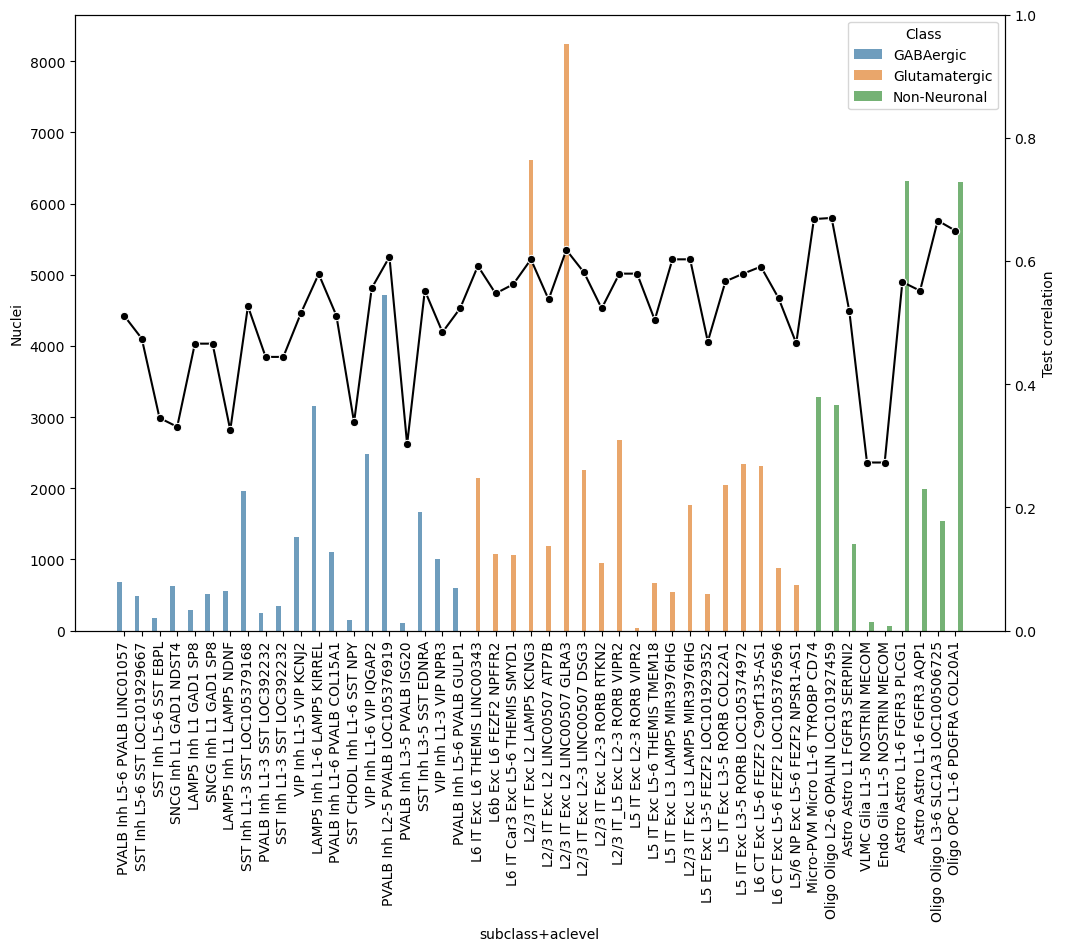
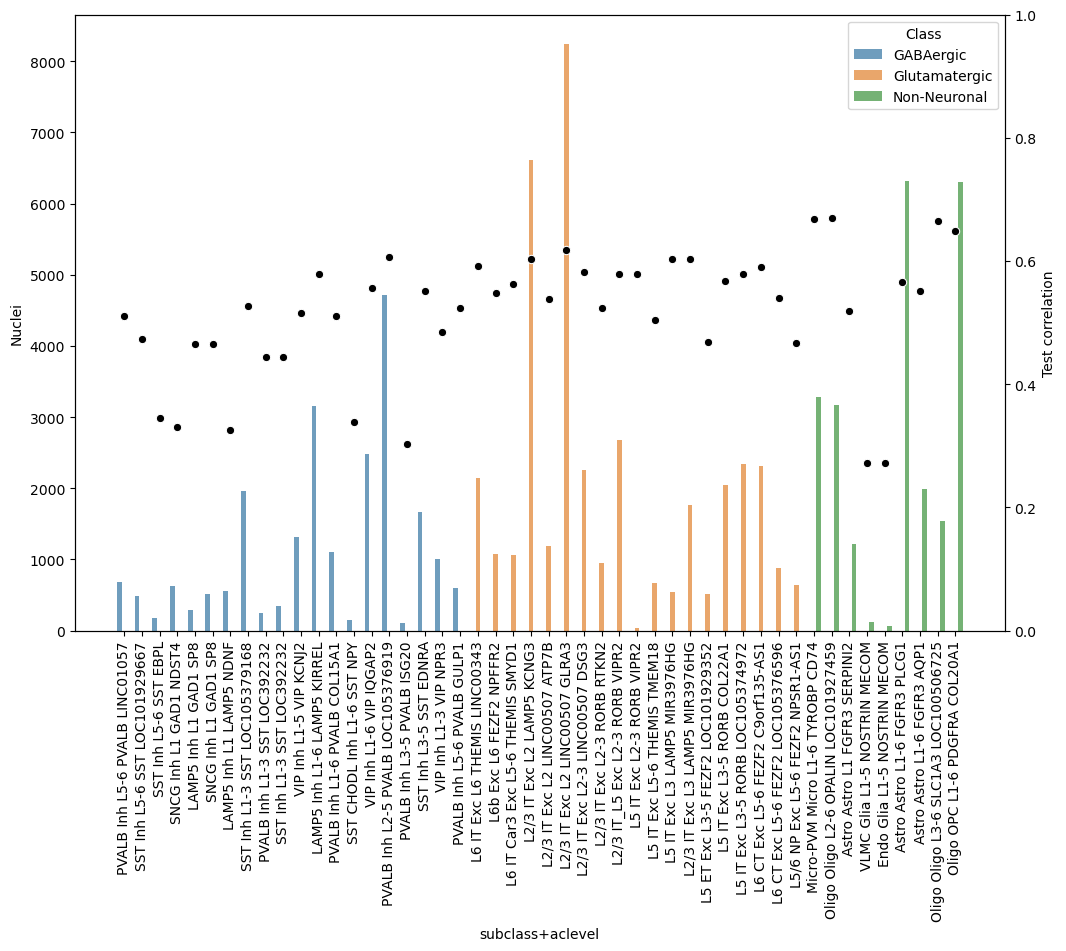
analyse atac counts vs correlation

diff --git a/human_atac_classes/analyse_counts.py b/human_atac_classes/analyse_counts.py
@@ -5,23 +5,23 @@ import seaborn as sns
 ## load correlation on the test set for these tracks
 df_corr_test = pd.read_csv('/exports/humgen/idenhond/data/evaluate_correlation/correlation_per_track_test_humanatac.csv')
 df_corr_test = df_corr_test.rename(columns = {'Unnamed: 0' : 'Index old'})
-print(df_corr_test)
-
 df_corr_valid = pd.read_csv('/exports/humgen/idenhond/data/evaluate_correlation/correlation_per_track_valid_humanatac.csv')
 df_corr_valid = df_corr_valid.rename(columns = {'Unnamed: 0' : 'Index old'})
-print(df_corr_valid)
-
 df_corr_train = pd.read_csv('/exports/humgen/idenhond/data/evaluate_correlation/correlation_per_track_train_humanatac.csv')
 df_corr_train = df_corr_train.rename(columns = {'Unnamed: 0' : 'Index old'})
-print(df_corr_train)
 
 input_file = '/exports/humgen/idenhond/data/basenji_preprocess/human_atac_targets_classes_counts.csv'
-df = pd.read_csv(input_file, sep = ',')
+df = pd.read_csv(input_file, sep = ',').drop_duplicates(subset = 'Index old', keep = False, inplace=False)
+print(df)
+# idx_subclass_ac = [35, 29,  30, 36, 37, 39, 40, 33, 25, 38, 41, 42, 31, 27, 28, 32, 8, 9, 10, 5, 6, 11, 12, 13, 19, 17, 15, 16, 21, 18, 20, 3, 1, 2, 52, 56, 57, 59]
+# df = df.loc[df['Index old'].isin(idx_subclass_ac)] #.sort_values(by = 'names')
 
 df_all = df.merge(df_corr_test, left_on='Index old', right_on = 'Index old').rename(columns = {'0' : 'Test correlation'})
 df_all = df_all.merge(df_corr_valid, left_on='Index old', right_on = 'Index old').rename(columns = {'0' : 'Valid correlation'})
 df_all = df_all.merge(df_corr_train, left_on='Index old', right_on = 'Index old').rename(columns = {'0' : 'Train correlation'})
+df_all = df_all.drop(['file', 'clip', 'sum_stat', 'scale'], axis = 1)
 print(df_all)
+print(df_all.shape)
 print(df_all.columns)
 
 print(f'Mean correlation Test: {df_all["Test correlation"].mean()}')
@@ -61,11 +61,94 @@ print(f'Mean correlation Train at Class level: {df_class["Train correlation"].me
 print(f'Mean correlation Train at Sublass level: {df_subclass["Train correlation"].mean():.3f}')
 print(f'Mean correlation Train at AC-cluster level: {df_aclevel["Train correlation"].mean():.3f}')
 
+print(df_all)
+value_mapping = {'Class': 1, 'Subclass': 2, 'Ac-level cluster': 3}
+df_all['Sort'] = df_all['level'].map(value_mapping)
+df_all = df_all.sort_values(by = 'Sort', axis = 'index')
+print(df_all)
+
+# groups = df_all.groupby('Sort')
+# fig, axs = plt.subplots(nrows=1, ncols=len(groups), sharex=False, sharey=True, width_ratios=[1, 6, 12], constrained_layout = True, figsize = (6.4*2, 4.8*2)) #
+# for (name, group), ax1 in zip(groups, axs):
+#     print(name) # 1, 2, 3
+#     # ax1.grid()
+#     ax1.set_axisbelow(True)
+#     # ax1.grid(axis='both', which='both')
+#     ax1.yaxis.grid(color='gray')
+#     # ax1.xaxis.grid(True, color='gray', linestyle='dashed')
+
+#     group = group.sort_values(by = 'Class', axis = 'index')
+#     print(group.shape)
+#     ax1.tick_params(axis='x', labelrotation = 90)
+#     ax2 = ax1.twinx()
+#     ax2.set_ylim([0, 1])
+#     ax1.set_xlabel(None)
+#     ax2.set_xlabel(None)
+
+#     print(group)
+#     sns.barplot(data = group, x = 'names', y = 'Nuclei', ax = ax1, hue = 'Class', dodge=False)
+#     sns.lineplot(data = group, x = 'names', y = 'Test correlation', ax=ax2, marker = 'o', color = 'k', linestyle='')
+#     if name == 1 or name == 2:
+#         ax2.set_yticklabels([]) 
+#         ax2.set_ylabel(None)
+#     if name == 2 or name == 3: 
+#         ax1.set_ylabel(None)
+    
+# plt.savefig('/exports/humgen/idenhond/projects/human_atac_classes/Plots/barplot_test.png', bbox_inches='tight', dpi = 300)
+# plt.savefig('/exports/humgen/idenhond/projects/enformer/correlation/plots_paper/Plots_paper/Fig3_ATAC/barplot_test.png', bbox_inches='tight', dpi = 300)
+
+# fig, axs = plt.subplots(nrows=1, ncols=len(groups), sharex=False, sharey=True, width_ratios=[1, 6, 12], constrained_layout = True, figsize = (6.4*2, 4.8*2)) #
+# for (name, group), ax1 in zip(groups, axs):
+#     group = group.sort_values(by = 'Class', axis = 'index')
+#     ax1.tick_params(axis='x', labelrotation = 90)
+#     ax2 = ax1.twinx()
+#     ax2.set_ylim([0, 1])
+#     ax1.set_xlabel(None)
+#     ax2.set_xlabel(None)
+#     sns.barplot(data = group, x = 'names', y = 'Nuclei', ax = ax1, hue = 'Class', dodge=False)
+#     sns.lineplot(data = group, x = 'names', y = 'Train correlation', ax=ax2, marker = 'o', color = 'k', linestyle='')
+#     if name == 1 or name == 2:
+#         ax2.set_yticklabels([]) 
+#         ax2.set_ylabel(None)
+#     if name == 2 or name == 3: 
+#         ax1.set_ylabel(None)
+# plt.savefig('/exports/humgen/idenhond/projects/human_atac_classes/Plots/barplot_train.png', bbox_inches='tight', dpi = 300)
+# plt.savefig('/exports/humgen/idenhond/projects/enformer/correlation/plots_paper/Plots_paper/Fig3_ATAC/barplot_train.png', bbox_inches='tight', dpi = 300)
+
+# fig, axs = plt.subplots(nrows=1, ncols=len(groups), sharex=False, sharey=True, width_ratios=[1, 6, 12], constrained_layout = True, figsize = (6.4*2, 4.8*2)) #
+# for (name, group), ax1 in zip(groups, axs):
+#     group = group.sort_values(by = 'Class', axis = 'index')
+#     ax1.tick_params(axis='x', labelrotation = 90)
+#     ax2 = ax1.twinx()
+#     ax2.set_ylim([0, 1])
+#     ax1.set_xlabel(None)
+#     ax2.set_xlabel(None)
+#     sns.barplot(data = group, x = 'names', y = 'Nuclei', ax = ax1, hue = 'Class', dodge=False)
+#     sns.lineplot(data = group, x = 'names', y = 'Valid correlation', ax=ax2, marker = 'o', color = 'k', linestyle='')
+#     if name == 1 or name == 2:
+#         ax2.set_yticklabels([]) 
+#         ax2.set_ylabel(None)
+#     if name == 2 or name == 3: 
+#         ax1.set_ylabel(None)
+# plt.savefig('/exports/humgen/idenhond/projects/human_atac_classes/Plots/barplot_valid.png', bbox_inches='tight', dpi = 300)
+# plt.savefig('/exports/humgen/idenhond/projects/enformer/correlation/plots_paper/Plots_paper/Fig3_ATAC/barplot_valid.png', bbox_inches='tight', dpi = 300)
+
+plt.figure()
+plt.tight_layout()
+plt.grid(True)
+ax = sns.scatterplot(data = df_all, x = 'Nuclei', y = 'Test correlation', s = 50, color = 'k')
+plt.ylim(0,1)
+plt.xticks([0, 10000, 20000, 30000, 40000], [0, 10000, 20000, 30000, 40000])
+plt.savefig('/exports/humgen/idenhond/projects/human_atac_classes/Plots/scatterplot_allclusters.png', bbox_inches='tight', dpi = 300)
+plt.savefig('/exports/humgen/idenhond/projects/enformer/correlation/plots_paper/Plots_paper/Fig3_ATAC/scatterplot_allclusters.png', bbox_inches='tight', dpi = 300)
+plt.close()
+
+exit()
 fig, ax1 = plt.subplots(figsize=(12,8))
 sns.barplot(data = df_class, x = 'Class', y = 'Nuclei')
 ax2 = ax1.twinx()
 ax2.set_ylim([0, 1])
-sns.lineplot(data = df_class, x = 'Class', y = 'Test correlation', ax=ax2, marker = 'o', color = 'k')
+sns.lineplot(data = df_class, x = 'Class', y = 'Test correlation', ax=ax2, marker = 'o', color = 'k', linestyle='')
 for pos, row in df_class.iterrows():
     ax2.annotate(f"{row['Test correlation']:.3f}", (pos, row['Test correlation']*1.06), color = 'k', va='top', ha='center')
 plt.savefig('/exports/humgen/idenhond/projects/human_atac_classes/Plots/barplot_class.png', bbox_inches='tight')
@@ -75,7 +158,7 @@ fig, ax1 = plt.subplots(figsize=(12,8))
 sns.barplot(data = df_subclass, x = 'Subclass', y = 'Nuclei', hue = 'Class', ax = ax1, alpha = 0.7)
 ax2 = ax1.twinx()
 ax2.set_ylim([0, 1])
-sns.lineplot(data = df_subclass, x = 'Subclass', y = 'Test correlation', ax=ax2, marker = 'o', color = 'k')
+sns.lineplot(data = df_subclass, x = 'Subclass', y = 'Test correlation', ax=ax2, marker = 'o', color = 'k', linestyle='')
 ax1.tick_params(axis='x', labelrotation = 90)
 # plt.xticks(rotation = 45, ha = 'right')
 # ax1.set_xticklabels(ax1.get_xticks(), rotation = 45)
@@ -84,11 +167,13 @@ plt.savefig('/exports/humgen/idenhond/projects/human_atac_classes/Plots/barplot_
 plt.close()
 
 fig, ax1 = plt.subplots(figsize=(12,8))
+
+# df_aclevel_sorted = df_aclevel.sort_values(['Class', 'Nuclei'])
 # sns.barplot(data = df_aclevel, x = 'Ac-level annotation', y = 'Nuclei') # 5 bars met 2 values
 sns.barplot(data = df_aclevel, x = 'subclass+aclevel', y = 'Nuclei', hue = 'Class', ax = ax1, alpha = 0.7) 
 ax2 = ax1.twinx()
 ax2.set_ylim([0, 1])
-sns.lineplot(data = df_aclevel, x = 'subclass+aclevel', y = 'Test correlation', ax=ax2, marker = 'o', color = 'k')
+sns.lineplot(data = df_aclevel, x = 'subclass+aclevel', y = 'Test correlation', ax=ax2, marker = 'o', color = 'k', linestyle='')
 ax1.tick_params(axis='x', labelrotation = 90)
 # plt.xticks(rotation = 90, ha = 'left')
 # ax1.set_xticklabels(ax1.get_xticks(), rotation = 45)
@@ -125,29 +210,37 @@ print(df_all['Subclass'])
 df_all['Class + Subclass'] = df_all['Class'] + ' ' + df_all['Subclass']
 # print(df_all['Class + Subclass'])
 plt.figure()
-sns.scatterplot(data = df_all, x = 'Nuclei', y = 'Test correlation', hue = 'Subclass', style = 'level')
+sns.scatterplot(data = df_all, x = 'Nuclei', y = 'Test correlation', hue = 'level')
 plt.ylim(0,1)
-plt.xscale('log')
+# plt.xscale('log')
 plt.title('All clusters')
 plt.legend(bbox_to_anchor=(1.04, 1), loc="upper left")
-plt.savefig('/exports/humgen/idenhond/projects/human_atac_classes/Plots/scatterplot_allclusters.png', bbox_inches='tight')
+plt.savefig('/exports/humgen/idenhond/projects/human_atac_classes/Plots/scatterplot_allclusters.png', bbox_inches='tight', dpi = 300)
 plt.close()
 
 print(df_aclevel['Nuclei'].sum())
 print(df_subclass['Nuclei'].sum())
 print(df_class['Nuclei'].sum())
 
-plt.figure()
-df_aclevel.plot.pie(y = 'Nuclei')
-plt.savefig('/exports/humgen/idenhond/projects/human_atac_classes/Plots/pieplot_aclevel.png', bbox_inches='tight')
-plt.close
 
-plt.figure()
-df_subclass.plot.pie(y = 'Nuclei')
-plt.savefig('/exports/humgen/idenhond/projects/human_atac_classes/Plots/pieplot_subclass.png', bbox_inches='tight')
-plt.close
 
-plt.figure()
-df_class.plot.pie(y = 'Nuclei')
-plt.savefig('/exports/humgen/idenhond/projects/human_atac_classes/Plots/pieplot_class.png', bbox_inches='tight')
-plt.close
+
+
+
+
+
+
+# plt.figure()
+# df_aclevel.plot.pie(y = 'Nuclei')
+# plt.savefig('/exports/humgen/idenhond/projects/human_atac_classes/Plots/pieplot_aclevel.png', bbox_inches='tight')
+# plt.close
+
+# plt.figure()
+# df_subclass.plot.pie(y = 'Nuclei')
+# plt.savefig('/exports/humgen/idenhond/projects/human_atac_classes/Plots/pieplot_subclass.png', bbox_inches='tight')
+# plt.close
+
+# plt.figure()
+# df_class.plot.pie(y = 'Nuclei')
+# plt.savefig('/exports/humgen/idenhond/projects/human_atac_classes/Plots/pieplot_class.png', bbox_inches='tight')
+# plt.close
